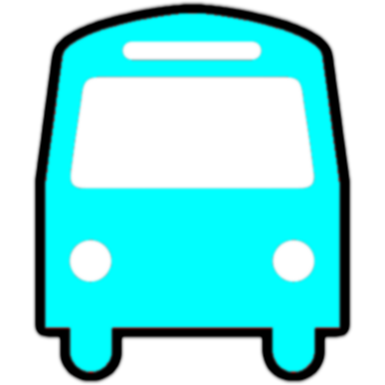
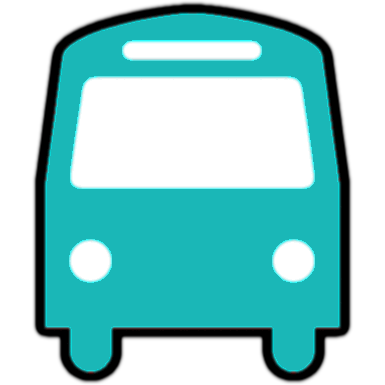
added 125

diff --git a/src/frontend/Pages/Schedule/components/ScheduleTable.tsx b/src/frontend/Pages/Schedule/components/ScheduleTable.tsx
@@ -9,10 +9,10 @@ import Schedule from './Schedule.tsx';
       ["Monday-Friday", "7:00 am – 7:30 am", "every 10 minutes"],
       ["Monday-Friday", "7:30 am – 6:30 pm", "every 5 minutes"],
       ["Monday-Friday", "6:30 pm – 10:00 pm", "every 15 minutes"],
-      ["Monday-Wednesday", "10:00 pm – 12:15 am", "every 20 minutes"],
+      ["Monday-Wednesday", "10:00 pm – 12:00 am", "every 20 minutes"],
       ["Thursday-Friday", "10:00 pm – 2:00 am", "every 20 minutes"],
-      ["Saturday", "9:30 am – 2:00 am", "every 20 minutes"],
-      ["Sunday", "9:30 am – 12:15 am", "every 20 minutes"],
+      ["Saturday", "8:00 am – 2:00 am", "every 20 minutes"],
+      ["Sunday", "8:00 am – 12:00 am", "every 20 minutes"]
     ]);
 
 
@@ -22,38 +22,42 @@ import Schedule from './Schedule.tsx';
           setSelectedName('121 Campus Connector');
           setScheduleTimes([
             ["Monday-Friday", "7:00 am – 7:30 am", "every 10 minutes"],
-            ["Monday-Friday", "7:30 am – 6:30 pm", "every 5 minutes"],
-            ["Monday-Friday", "6:30 pm – 10:00 pm", "every 15 minutes"],
-            ["Monday-Wednesday", "10:00 pm – 12:15 am", "every 20 minutes"],
+            ["Monday-Friday", "7:30 am – 6:00 pm", "every 5 minutes"],
+            ["Monday-Friday", "6:00 pm – 10:00 pm", "every 15 minutes"],
+            ["Monday-Wednesday", "10:00 pm – 12:00 am", "every 20 minutes"],
             ["Thursday-Friday", "10:00 pm – 2:00 am", "every 20 minutes"],
-            ["Saturday", "9:30 am – 2:00 am", "every 20 minutes"],
-            ["Sunday", "9:30 am – 12:15 am", "every 20 minutes"],
-            ["Sunday", "9:30 am – 12:15 am", "every 20 minutes"],
-            ["Sunday", "9:30 am – 12:15 am", "every 20 minutes"],
-            ["Sunday", "9:30 am – 12:15 am", "every 20 minutes"],
-            ["Sunday", "9:30 am – 12:15 am", "every 20 minutes"],
+            ["Saturday", "8:00 am – 2:00 am", "every 20 minutes"],
+            ["Sunday", "8:00 am – 12:00 am", "every 20 minutes"]
           ]);
           break;
         case 122:
           setSelectedName('122 University Avenue Circulator');
           setScheduleTimes([
-            ["Monday-Friday", "7:00 am – 6:30 pm", "every 10 minutes"],
-            ["Monday-Wednesday", "6:30 pm – 12:15 am", "every 15 minutes"],
-            ["Thursday-Friday", "6:30 pm – 2:00 am", "every 15 minutes"],
-            ["Saturday", "9:30 am – 2:00 am", "every 15 minutes"],
-            ["Sunday", "9:30 am – 12:15 am", "every 15 minutes"],
+            ["Monday-Friday", "7:00 am – 12:00 pm", "every 15 minutes"],
+            ["Monday-Friday", "12:00 am – 6:00 pm", "every 10 minutes"],
+            ["Monday-Wednesday", "6:00 pm – 12:00 am", "every 20 minutes"],
+            ["Thursday-Friday", "6:00 pm – 2:00 am", "every 20 minutes"],
+            ["Saturday", "8:00 am – 2:00 am", "every 20 minutes"],
+            ["Sunday", "8:00 am – 12:00 am", "every 20 minutes"]
           ]);
           break;
         case 123:
           setSelectedName('123 4th Street Circulator');
           setScheduleTimes([
-            ["Monday-Friday", "7:00 am – 6:00 pm", "every 10 minutes"]
+            ["Monday-Friday", "7:00 am – 12:00 pm", "every 10 minutes"],
+            ["Monday-Friday", "12:00 pm – 6:00 pm", "every 15 minutes"]
           ]);
           break;
         case 124:
-          setSelectedName('124 St. Paul Campus Circulator');
+          setSelectedName('124 St. Paul Circulator');
           setScheduleTimes([
             ["Monday-Friday", "7:00 am – 6:00 pm", "every 20 minutes"]
+          ]);
+          break;
+        case 125:
+          setSelectedName('125 Dinkytown Connector');
+          setScheduleTimes([
+            ["Monday-Friday", "7:10 am – 3:10 pm", "every 15 minutes"]
           ]);
           break;
         case 120:

diff --git a/src/backend/Resources.ts b/src/backend/Resources.ts
@@ -6,6 +6,7 @@ import busImage121 from "../img/121_bus.png"
 import busImage122 from "../img/122_bus.png"
 import busImage123 from "../img/123_bus.png"
 import busImage124 from "../img/124_bus.png"
+import busImage125 from "../img/125_bus.png"
 import busImage2 from "../img/2_bus.png"
 import busImage3 from "../img/3_bus.png"
 import busImage6 from "../img/6_bus.png"
@@ -17,6 +18,7 @@ import arrowImage121 from "../img/121_arrow.png"
 import arrowImage122 from "../img/122_arrow.png"
 import arrowImage123 from "../img/123_arrow.png"
 import arrowImage124 from "../img/124_arrow.png"
+import arrowImage125 from "../img/125_arrow.png"
 import arrowImage2 from "../img/2_arrow.png"
 import arrowImage3 from "../img/3_arrow.png"
 import arrowImage6 from "../img/6_arrow.png"
@@ -165,6 +167,7 @@ namespace Resources {
         "122": [busImage122, arrowImage122],
         "123": [busImage123, arrowImage123], 
         "124": [busImage124, arrowImage124],
+        "125": [busImage125, arrowImage125],
         "2": [busImage2, arrowImage2],
         "3": [busImage3, arrowImage3],
         "6": [busImage6, arrowImage6],
@@ -177,8 +180,9 @@ namespace Resources {
         "120": "FFC0CB", 
         "121": "FF0000", 
         "122": "800080", 
-        "123": "00FFFF", 
+        "123": "1ab7b7", 
         "124": "90EE90",
+        "125": "c727e2",
         "2": "bab832",
         "3": "d18528",
         "6": "236918",

diff --git a/src/frontend/Pages/Schedule/Schedules.tsx b/src/frontend/Pages/Schedule/Schedules.tsx
@@ -34,7 +34,8 @@ export default function Schedules() {
                         <MenuItemOption value='121' onClick={() => setSelectedSchedule(121)}>121 Campus Connector</MenuItemOption>
                         <MenuItemOption value='122' onClick={() => setSelectedSchedule(122)}>122 University Avenue Circulator</MenuItemOption>
                         <MenuItemOption value='123' onClick={() => setSelectedSchedule(123)}>123 4th Street Circulator</MenuItemOption>
-                        <MenuItemOption value='124' onClick={() => setSelectedSchedule(124)}>124 St. Paul Campus Circulator</MenuItemOption>
+                        <MenuItemOption value='124' onClick={() => setSelectedSchedule(124)}>124 St. Paul Circulator</MenuItemOption>
+                        <MenuItemOption value='125' onClick={() => setSelectedSchedule(125)}>125 Dinkytown Connector</MenuItemOption>
                         <MenuItemOption value='120' onClick={() => setSelectedSchedule(120)}>120 East Bank Circulator</MenuItemOption>
                     </MenuOptionGroup>
                 </MenuList>

diff --git a/src/frontend/NavBar/components/Sidebar.tsx b/src/frontend/NavBar/components/Sidebar.tsx
@@ -15,7 +15,8 @@ export default function SideBar() {
     routes.set("121", "121 Campus Connector");
     routes.set("122", "122 University Avenue Circulator");
     routes.set("123", "123 4th Street Circulator");
-    routes.set("124", "124 St. Paul Campus Circulator");
+    routes.set("124", "124 St. Paul Circulator");
+    routes.set("125", "125 Dinkytown Connector");
     routes.set("120", "120 East Bank Circulator");
     routes.set("2", "2 Franklin Av / To Hennepin");
     routes.set("6", "6U 27Av-Univ / Via France");

diff --git a/src/backend/Peak.ts b/src/backend/Peak.ts
@@ -54,6 +54,7 @@ namespace Peak {
             .then(async response => response.json()
             .then(data => data.shape?.forEach(shape => shapes.set(shape.shapeID, shape))))
 
+        console.log(shapeId);
         return shapes.get(shapeId); 
     }
 
@@ -66,7 +67,8 @@ namespace Peak {
         "121": 11278, 
         "122": 11279, 
         "123": 11280, 
-        "124": 11281
+        "124": 11281,
+        "125": 12527
     };
 }
 

diff --git a/src/styles.css b/src/styles.css
@@ -152,11 +152,15 @@ div#title-bar > h1 > .city {
 }
 
 .sidebar-content button.route-123::before {
-    background-color: #00FFFF; /* Cyan */
+    background-color: #1ab7b7; /* Cyan */
 }
 
 .sidebar-content button.route-124::before {
     background-color: #90EE90; /* Light Green */
+}
+
+.sidebar-content button.route-125::before {
+  background-color: #c727e2; /* Light Green */
 }
 
 .sidebar-content button.route-120::before {
